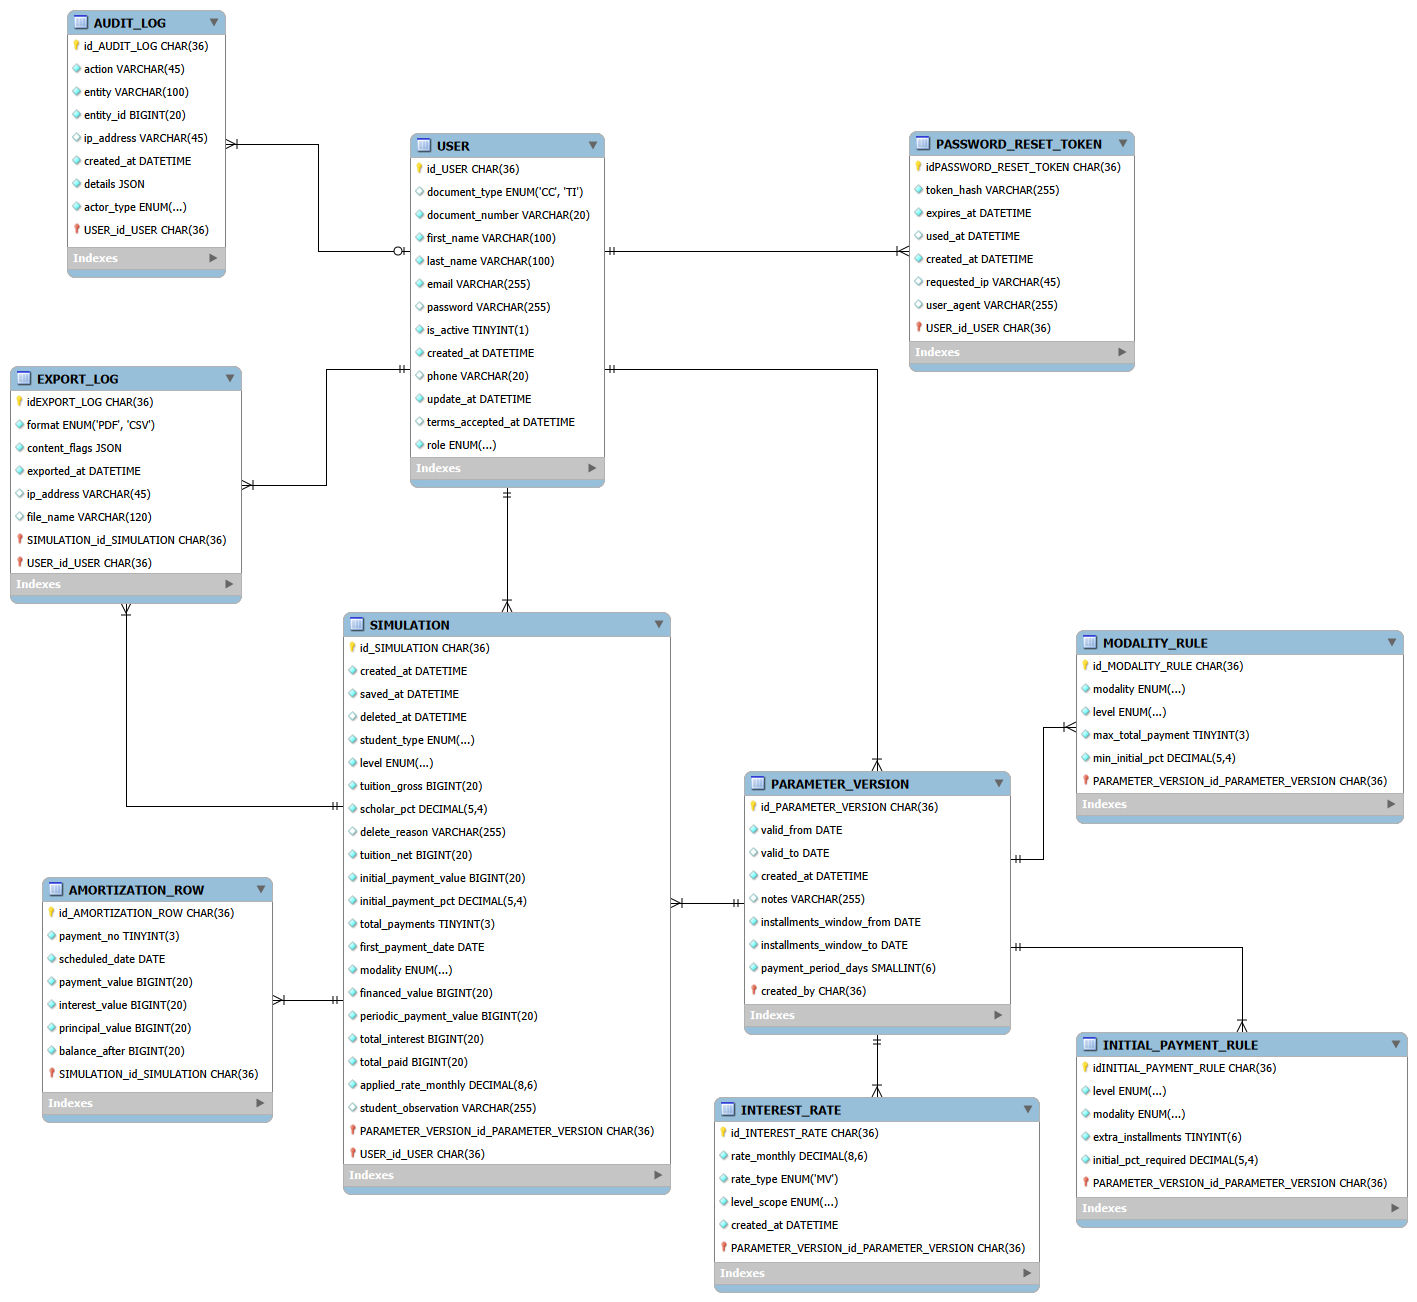
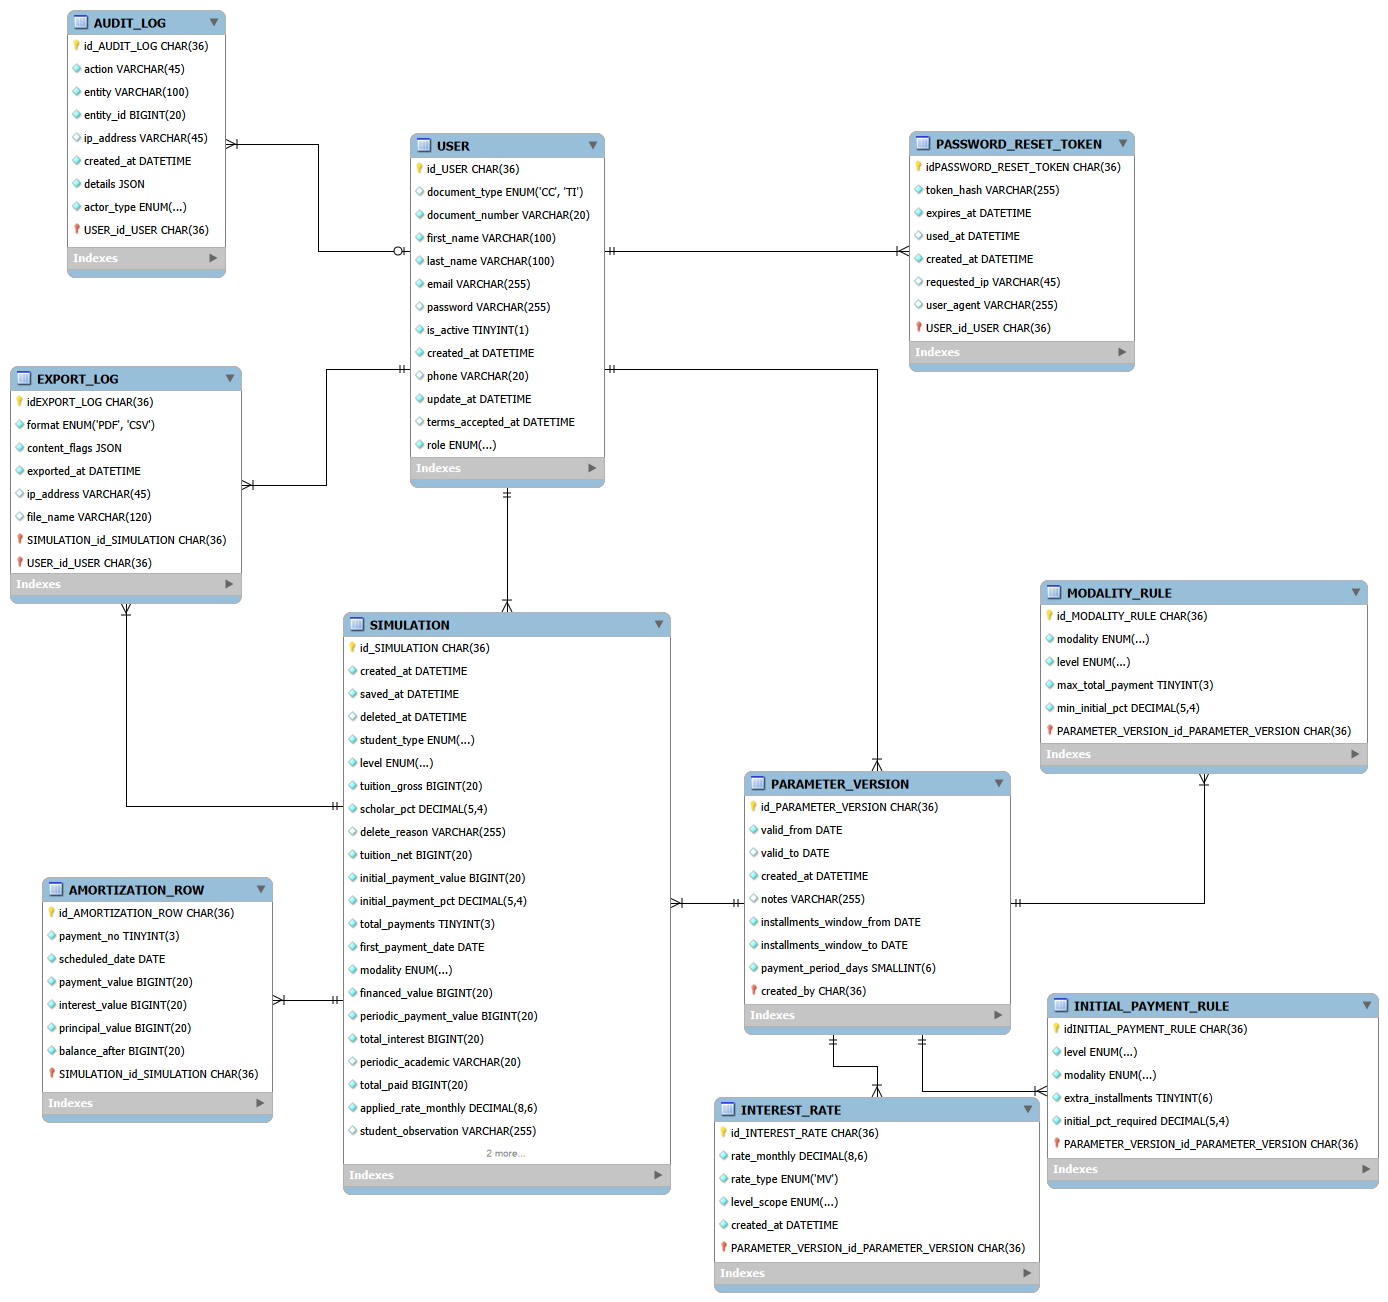
docs(db): update database diagram and implement dynamic parameter validation
- Update bdfinal.png with latest database schema
- Refactor SimulationService to use dynamic modality rules from database (HU-24)
- Apply min initial payment percentage and max total payments from ModalityRuleModel when available
- Add fallback to hardcoded validation when database parameters are not present
- Fix modality determination for rule lookup: treat con_interes with ≤3 payments as sin_interes for min initial

diff --git a/server/src/Application/services/SimulationService.ts b/server/src/Application/services/SimulationService.ts
@@ -9,6 +9,7 @@ import { SimulationEngine } from './SimulationEngine';
 import type { SimulationInput } from '../dtos/SimulationInput';
 import type { SimulationSummary } from '../dtos/SimulationSummary';
 import type { ActiveParameterVersion } from '../../Core/repositories/IParameterVersionRepository';
+import { LEVEL_MAP } from '../dtos/constants';
 
 export class SimulationService {
   private readonly paramService: ParameterService;
@@ -27,8 +28,31 @@ export class SimulationService {
     // Estudiante nuevo/continuo: SÍ puede tener beca/descuento
     const effectiveScholarshipPct = input.educationLevel === 'upbTech' ? 0 : input.scholarshipPct;
 
-    // Regla: cuota inicial mínima dinámica (15% upbTech, 20% pregrado/posgrado)
-    InitialPaymentRule.validatePct(input.initialPaymentPct, input.educationLevel);
+    // Regla: cuota inicial mínima — usar parámetros de BD si están disponibles
+    const dbLevel = LEVEL_MAP[input.educationLevel];
+    if (activeVersion && dbLevel) {
+      // #59 — Modalidad efectiva anticipada para leer la regla correcta
+      const modeForRule = input.interestMode === 'con_interes' && input.numberOfPayments <= 3
+        ? 'sin_interes'
+        : input.interestMode;
+      const dbModality = modeForRule === 'sin_interes' ? 'SIN_INTERES' : 'CON_INTERES';
+      const modalityRule = activeVersion.modalityRules.find(
+        r => r.level === dbLevel && r.modality === dbModality,
+      );
+      if (modalityRule) {
+        const minPct = modalityRule.minInitialPct * 100; // decimal → porcentaje
+        if (input.initialPaymentPct < minPct) {
+          throw new Error(
+            `La cuota inicial debe ser al menos ${minPct}% del valor neto de matrícula para ${input.educationLevel}.`,
+          );
+        }
+      } else {
+        InitialPaymentRule.validatePct(input.initialPaymentPct, input.educationLevel);
+      }
+    } else {
+      // Fallback: validación hardcodeada (15% upbTech, 20% pregrado/posgrado)
+      InitialPaymentRule.validatePct(input.initialPaymentPct, input.educationLevel);
+    }
 
     // Regla: tuición bruta debe ser positiva
     if (input.tuitionGross <= 0) {
@@ -60,8 +84,19 @@ export class SimulationService {
       input.academicPeriod,
       input.firstPaymentMonth,
     );
-    // Tope adicional por modalidad efectiva: sin_interes → máx 3, con_interes → máx 6
-    const capByMode     = effectiveMode === 'sin_interes' ? 3 : 6;
+
+    // Tope por modalidad: leer desde BD si está disponible, sino usar fallback hardcodeado
+    let capByMode: number;
+    if (activeVersion && dbLevel) {
+      const dbModality = effectiveMode === 'sin_interes' ? 'SIN_INTERES' : 'CON_INTERES';
+      const modalityRule = activeVersion.modalityRules.find(
+        r => r.level === dbLevel && r.modality === dbModality,
+      );
+      capByMode = modalityRule ? modalityRule.maxTotalPayments : (effectiveMode === 'sin_interes' ? 3 : 6);
+    } else {
+      capByMode = effectiveMode === 'sin_interes' ? 3 : 6;
+    }
+
     const maxInstallments = Math.min(maxByPeriod, capByMode);
     if (input.numberOfPayments < 1 || input.numberOfPayments > maxInstallments) {
       throw new Error(
